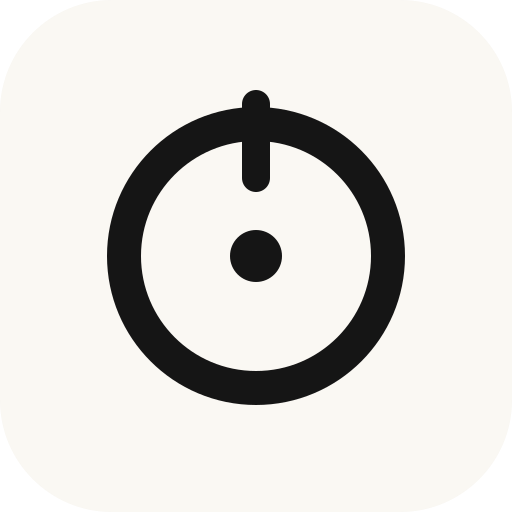
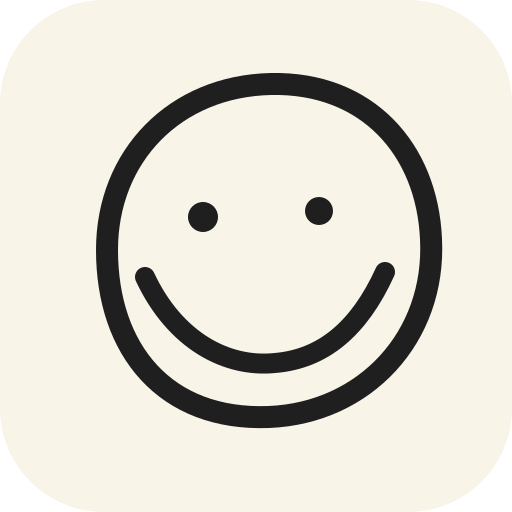
Place mono smile mark on homepage

diff --git a/quartz/styles/custom.scss b/quartz/styles/custom.scss
@@ -33,6 +33,24 @@
   line-height: 1.45;
 }
 
+.intro-mark-row {
+  display: flex;
+  align-items: center;
+  gap: 0.45rem;
+  margin-bottom: 0.45rem;
+}
+
+.intro-mark-row .section-label {
+  margin: 0;
+}
+
+.intro-mark {
+  width: 2rem;
+  height: 2rem;
+  border-radius: 0.55rem;
+  flex: 0 0 2rem;
+}
+
 .intro-section p {
   margin: 0;
 }
@@ -164,6 +182,12 @@
   .intro-section {
     font-size: clamp(0.96rem, 4vw, 1.02rem);
     line-height: 1.48;
+  }
+
+  .intro-mark {
+    width: 1.85rem;
+    height: 1.85rem;
+    flex-basis: 1.85rem;
   }
 
   .intro-body {

diff --git a/quartz/components/Head.tsx b/quartz/components/Head.tsx
@@ -28,7 +28,7 @@ export default (() => {
     const url = new URL(`https://${cfg.baseUrl ?? "example.com"}`)
     const path = url.pathname as FullSlug
     const baseDir = fileData.slug === "404" ? path : pathToRoot(fileData.slug!)
-    const iconVersion = "20260527-simple"
+    const iconVersion = "20260527-mono-smile"
     const iconPath = `${joinSegments(baseDir, "static/icon.png")}?v=${iconVersion}`
     const faviconPath = `${joinSegments(baseDir, "favicon.ico")}?v=${iconVersion}`
 

diff --git a/content/index.md b/content/index.md
@@ -19,7 +19,10 @@ enableToc: false
 <hr class="home-divider" />
 
 <section class="home-section intro-section">
-  <p class="section-label">About</p>
+  <div class="intro-mark-row">
+    <img class="intro-mark" src="./static/icon.png?v=20260527-mono-smile" alt="" />
+    <p class="section-label">About</p>
+  </div>
 
 <p class="intro-line">경영학박사이자 경영지도사입니다.</p>
 